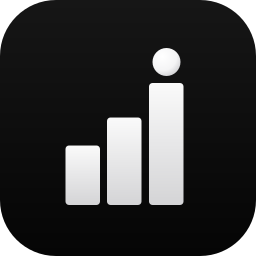
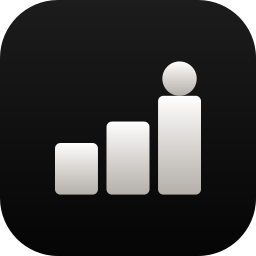
@ feat(brand): glifo SiteMark achatado y alineado al wordmark + iconos
El glifo de 3 barras + punto se rediseñó "más chato" (v5): tinta centrada
dentro del viewBox (y[19,81]) con el punto pegado a las barras. Así, junto
al wordmark "estadísticas argentinas" con items-center, la marca queda
dentro de la banda de mayúsculas y no sobresale arriba/abajo.

- SiteMark: nueva geometría centrada (afecta navbar, footer, InstallPrompt).
- Iconos PWA + favicon regenerados con la marca nueva (estilo consistente),
  vía scripts/generate-pwa-icons.mjs (ahora genera el set completo).

@

diff --git a/components/SiteMark.tsx b/components/SiteMark.tsx
@@ -5,7 +5,10 @@
  * El color se controla desde el padre con `color: var(--mark-color)` que
  * apunta a `var(--color-primary)` en light y dark.
  *
- * Mantiene paridad con datalogia-portal/components/site-mark.tsx (v4).
+ * v5: glifo achatado y centrado dentro del viewBox (tinta en y[19,81], centro
+ * 50,50) con el punto pegado a las barras. Así, renderizado con `items-center`
+ * junto al wordmark, la marca queda dentro de la banda de mayúsculas del texto
+ * (no sobresale arriba/abajo) sin necesidad de alinear a la baseline.
  */
 export function SiteMark({
   size = 20,
@@ -38,14 +41,14 @@ export function SiteMark({
           <stop offset="1" stopColor="black" stopOpacity="0.28" />
         </radialGradient>
       </defs>
-      <rect x="14" y="60" width="20" height="34" rx="2" />
-      <rect x="38" y="44" width="20" height="50" rx="2" />
-      <rect x="62" y="24" width="20" height="70" rx="2" />
-      <circle cx="72" cy="12" r="8" />
-      <rect x="14" y="60" width="20" height="34" rx="2" fill={`url(#${uid}-bar-shadow)`} />
-      <rect x="38" y="44" width="20" height="50" rx="2" fill={`url(#${uid}-bar-shadow)`} />
-      <rect x="62" y="24" width="20" height="70" rx="2" fill={`url(#${uid}-bar-shadow)`} />
-      <circle cx="72" cy="12" r="8" fill={`url(#${uid}-dot-shadow)`} />
+      <rect x="16" y="57" width="20" height="24" rx="2.5" />
+      <rect x="40" y="47" width="20" height="34" rx="2.5" />
+      <rect x="64" y="35" width="20" height="46" rx="2.5" />
+      <circle cx="74" cy="27" r="8" />
+      <rect x="16" y="57" width="20" height="24" rx="2.5" fill={`url(#${uid}-bar-shadow)`} />
+      <rect x="40" y="47" width="20" height="34" rx="2.5" fill={`url(#${uid}-bar-shadow)`} />
+      <rect x="64" y="35" width="20" height="46" rx="2.5" fill={`url(#${uid}-bar-shadow)`} />
+      <circle cx="74" cy="27" r="8" fill={`url(#${uid}-dot-shadow)`} />
     </svg>
   );
 }
